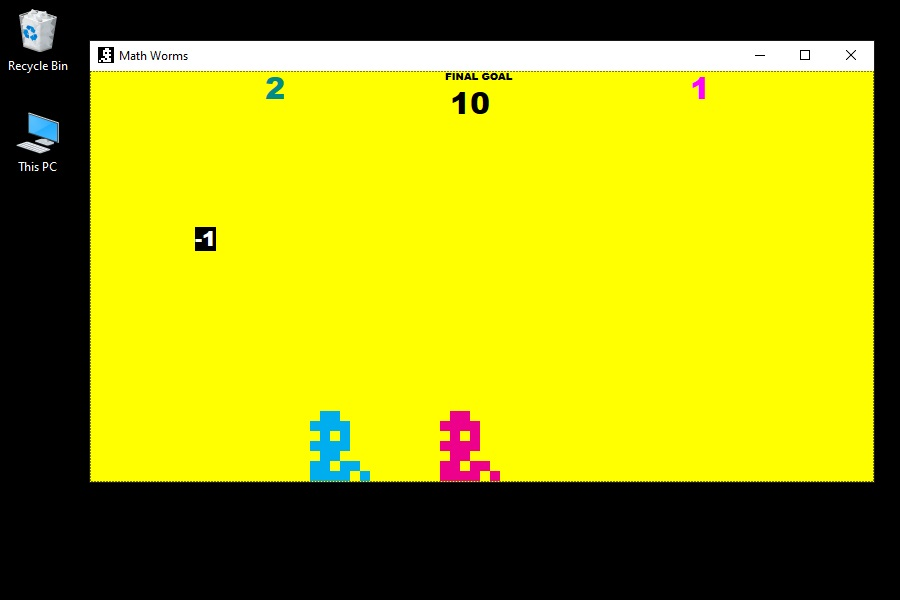
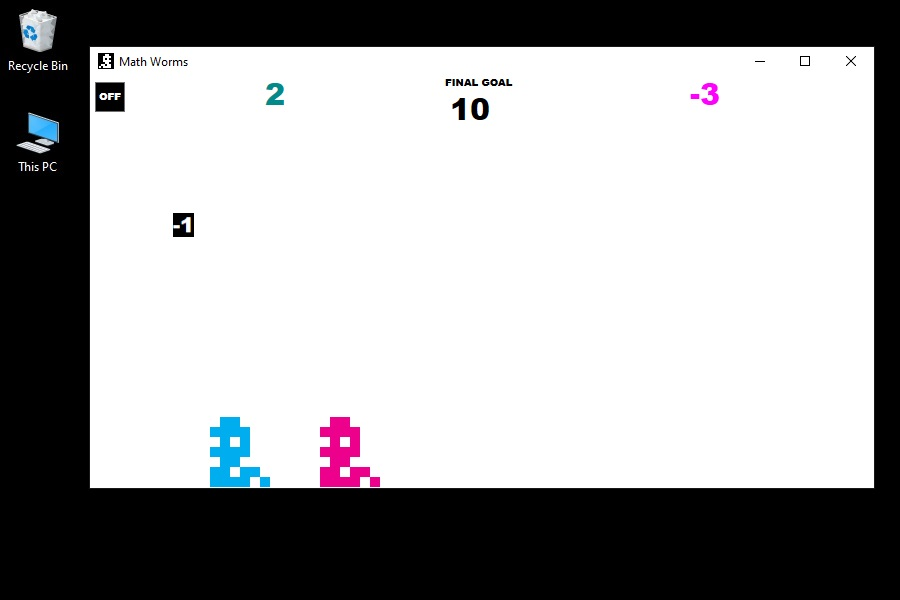
Distance settings improved. Scrots updated

diff --git a/src/GameMathWorms/MainWindow.xaml.cs b/src/GameMathWorms/MainWindow.xaml.cs
@@ -43,6 +43,8 @@ namespace GameMathWorms
         // ==================== Game Flow ====================
         private void InitializeGame()
         {
+            GameGrid.Background = new SolidColorBrush(Colors.Yellow);
+
             _ = AddPlayerImageElement("ImageBlue", "/worm_cyan.png", scaleX: 1, new Thickness(-720, 340, 0, 0));
             _ = AddPlayerImageElement("ImageRed", "/worm_magenta.png", scaleX: -1, new Thickness(720, 340, 0, 0));
 
@@ -188,8 +190,8 @@ namespace GameMathWorms
 
         private void UpdatePlayerScoreIfIntersectsWithTarget(Player player)
         {
-            if (Canvas.GetLeft(_target.Label) > Canvas.GetLeft(player.Image) - 100 &&
-                Canvas.GetLeft(_target.Label) < Canvas.GetLeft(player.Image) + 100 &&
+            if (Canvas.GetLeft(_target.Label) > Canvas.GetLeft(player.Image) - 20 &&
+                Canvas.GetLeft(_target.Label) < Canvas.GetLeft(player.Image) + 80 &&
                 Canvas.GetTop(_target.Label) >= Canvas.GetTop(player.Image))
             {
                 player.RecalculateScore(_target);
@@ -387,7 +389,7 @@ namespace GameMathWorms
             DoubleAnimation animationFalling = new DoubleAnimation
             {
                 From = GameConstants.Target.MinPositionY,
-                To = GameConstants.Canvas.HeightMax + 200,
+                To = GameConstants.Canvas.HeightMax - 50,
                 Duration = new Duration(TimeSpan.FromSeconds(targetSpeed)),
                 AutoReverse = false
             };

diff --git a/src/GameMathWorms/Models/ElementFactory.cs b/src/GameMathWorms/Models/ElementFactory.cs
@@ -32,7 +32,7 @@ namespace GameMathWorms.Models
             Canvas canvas = new Canvas
             {
                 Name = name,
-                Background = new SolidColorBrush(Colors.Yellow),
+                Background = new SolidColorBrush(Colors.White),
                 Focusable = true
             };
 
